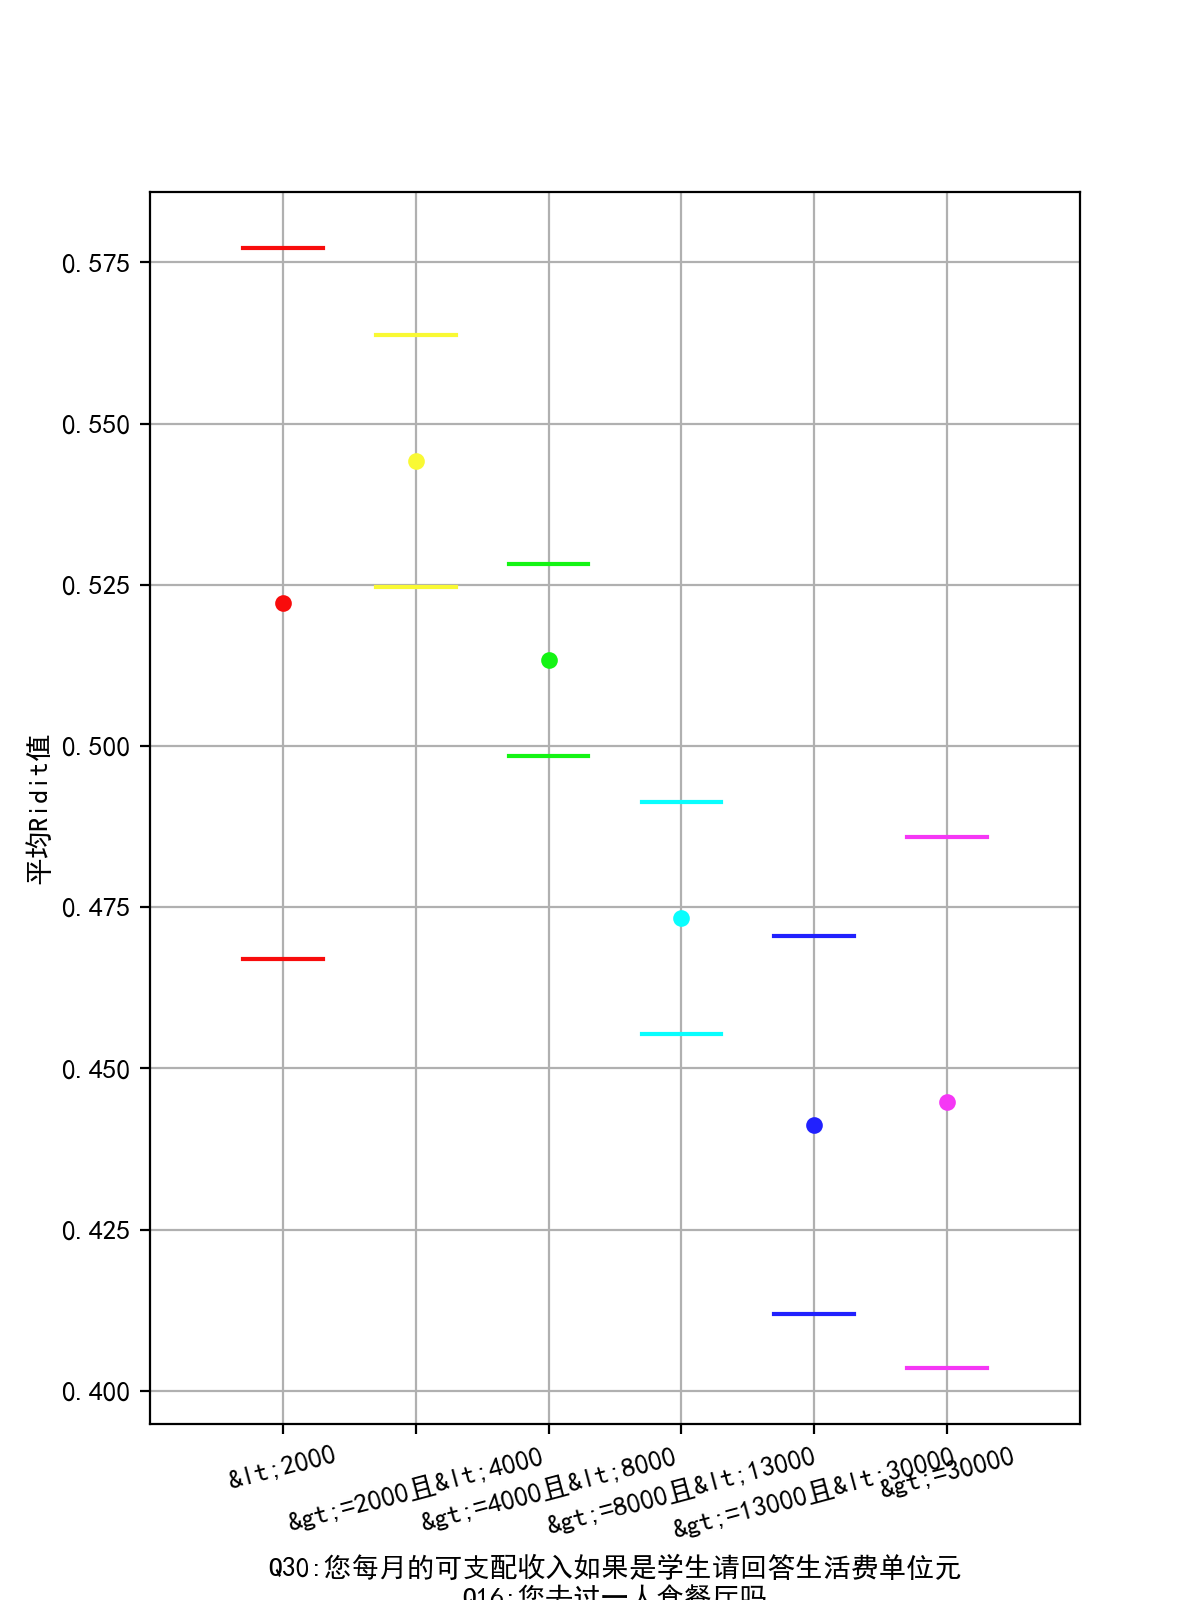
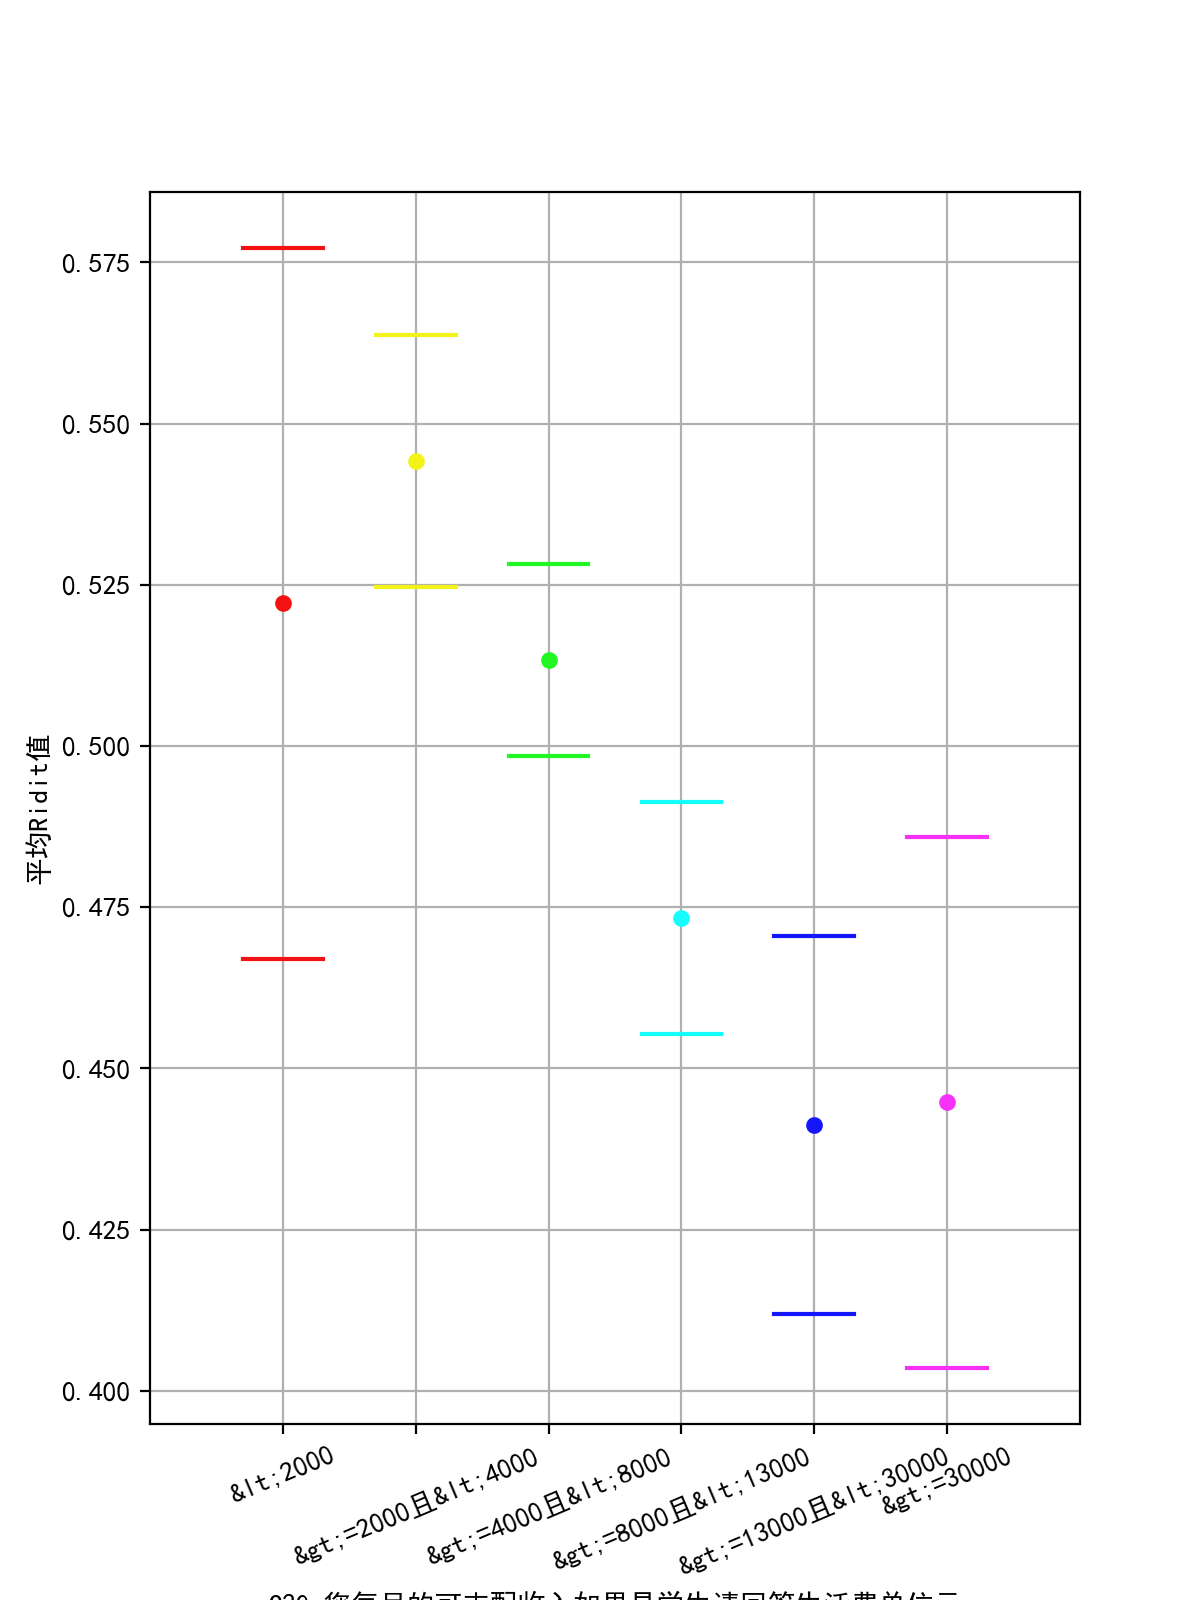
2.12

Changed region(s): [[0.185, 0.9062, 0.8325, 1.0], [0.3392, 0.2812, 0.37, 0.3125]]

diff --git a/Python-code/Survey/ridit.py b/Python-code/Survey/ridit.py
@@ -186,7 +186,7 @@ class Ridit():
                 print('有显著差异！')
                 self.decode.decoding_chi2_sig(self.question_list)
         self.boxplot()
-        print(self.crosstab)
+        print(self.crosstab['All'])
 
     def boxplot(self):
         print('开始绘制箱线图......')
@@ -213,4 +213,4 @@ class Ridit():
                    str(self.question_list[1]) + ':' + string2)
         plt.ylabel('平均Ridit值')
         plt.savefig(f'../../pic/ridit_boxplot/{self.question_list[0]}-{self.question_list[1]}.png')
-        plt.show()
+        # plt.show()

diff --git a/Python-code/Survey/ridit_multi.py b/Python-code/Survey/ridit_multi.py
@@ -1,4 +1,4 @@
-# -*- coding: utf-8 -*-            
+# -*- coding: utf-8 -*-
 # @Time : 2023/2/11 14:47
 # @Author : JinYueYu
 # Description : 
@@ -12,7 +12,7 @@ def main():
     # 第一个问题必须为检验的指标，第二个问题必须为等级指标
     list_1 = ['Q26', 'Q27', 'Q28', 'Q29', 'Q30']
     for i in range(len(list_1)):
-        question_list = [list_1[i], 'Q8']
+        question_list = [list_1[i], 'Q16']
         ridit = Ridit(data, question_list)
         ridit.calculate_stander_ri()
         ridit.calculate_std()
